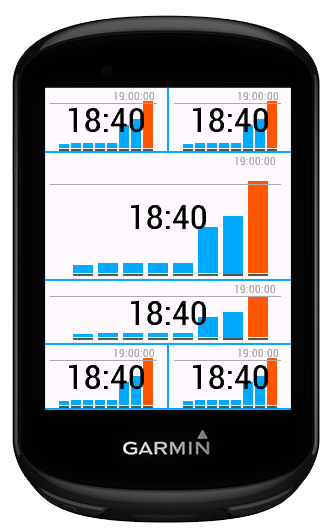
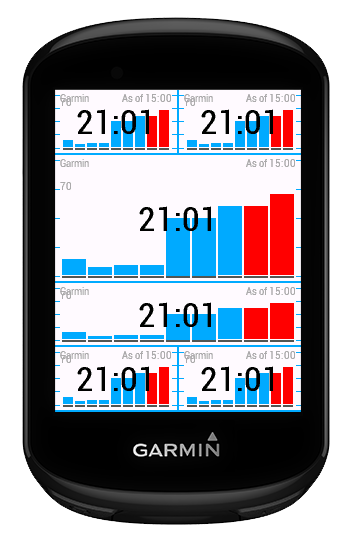
Show grid, fix column positions

Changed region(s): [[0.1194, 0.1504, 0.8657, 0.8722], [0.0299, 0.0301, 0.8955, 0.9925], [0.8955, 0.0902, 0.9552, 0.9023]]

diff --git a/README.md b/README.md
@@ -7,18 +7,23 @@ Connect IQ datafield showing precipitation chance.
 Get weather forecast and show per upcoming hour the precipitation chance in a blue column.
 If the weather conditions is `thunder` then the color will be red.
 
-First column shows precipitation chance for the next hour. If current time is 12:01 or 12:59 then 
-first column precipitation chance is for 13:00.
+First column shows precipitation chance for the current hour.
 
+Settings:
+	Show current forecast: show precipitation chance of current hour in first column.
+	Maximum hours of forecast data: precipitation chance will be displayd per hour in the next columns.
+	Alert level precipitation chance: set the percentage.
+	Show alert level line: display the precipitation chance alert level.
+	Show maximum precipitation chance on top of first column: Just what you read.
+	Show time of observation: display the time of the wheater data in top right corner.
+	Show location of observation: display the name in top left corner.
+	Show time of day: yes or no.	
+	
 Todo:
  - Show notification (next to time) ! when forecast data is delayed.
  - App settings for color
  - Target for other weather conditions and colors
- - show the current values (condition and precipitation chance).
-    - make it first column
- - layout margins
- - layout for small and layout for bigger field
-  - background orange when first time thunder, reset when no thunder at all. 
-
-- weird bug format Gregorian.Info.hour -> shows the actual time using println but shows `method` when drawn to dc.
- 
+ - layout for small and layout for bigger field  
+ - to fix, weird bug format Gregorian.Info.hour -> shows the actual time using println but shows `method` when drawn to dc.
+  
+  
